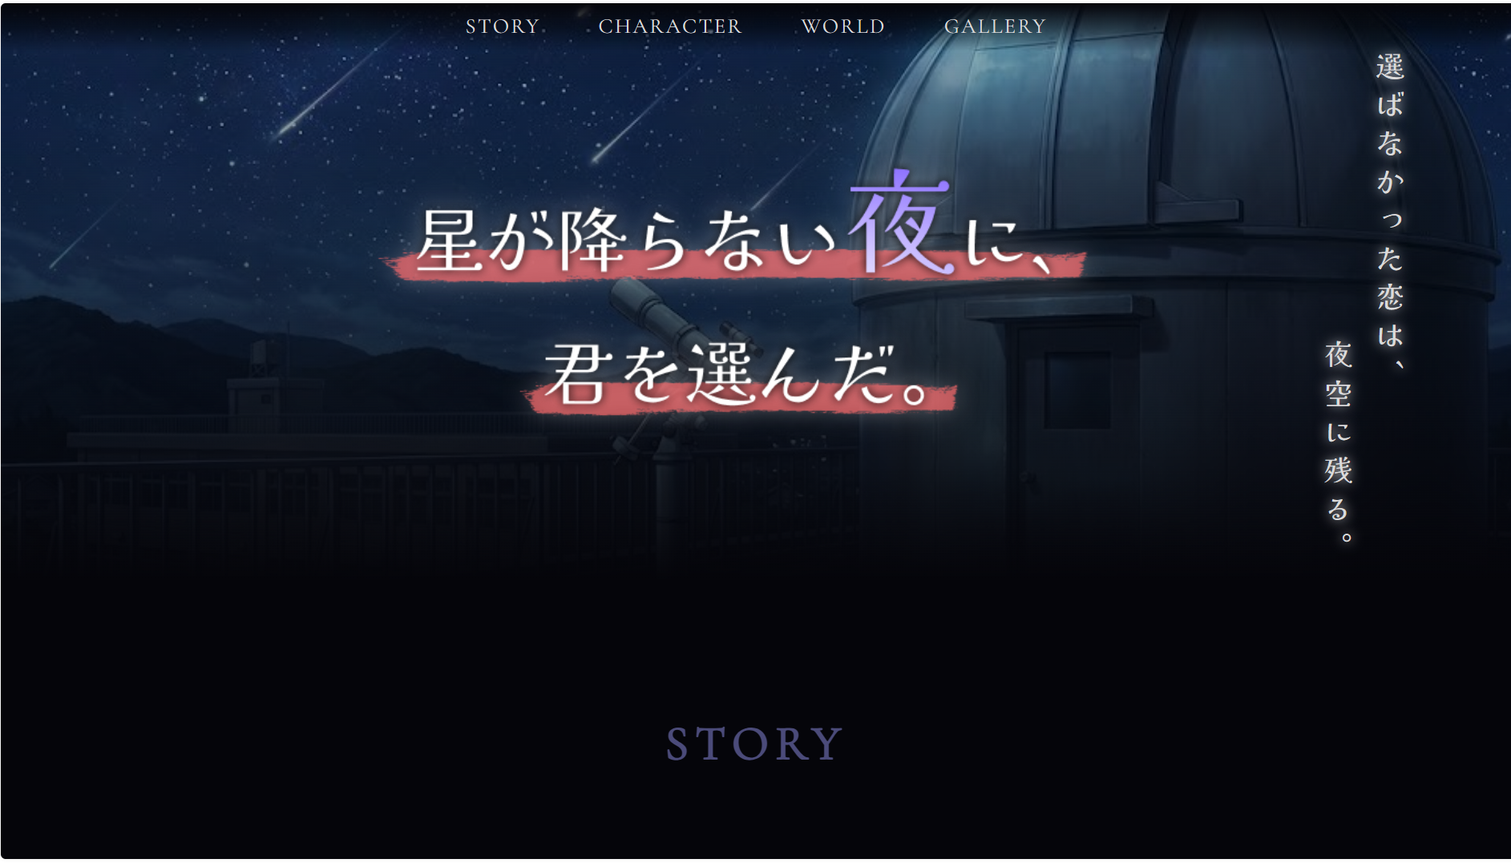
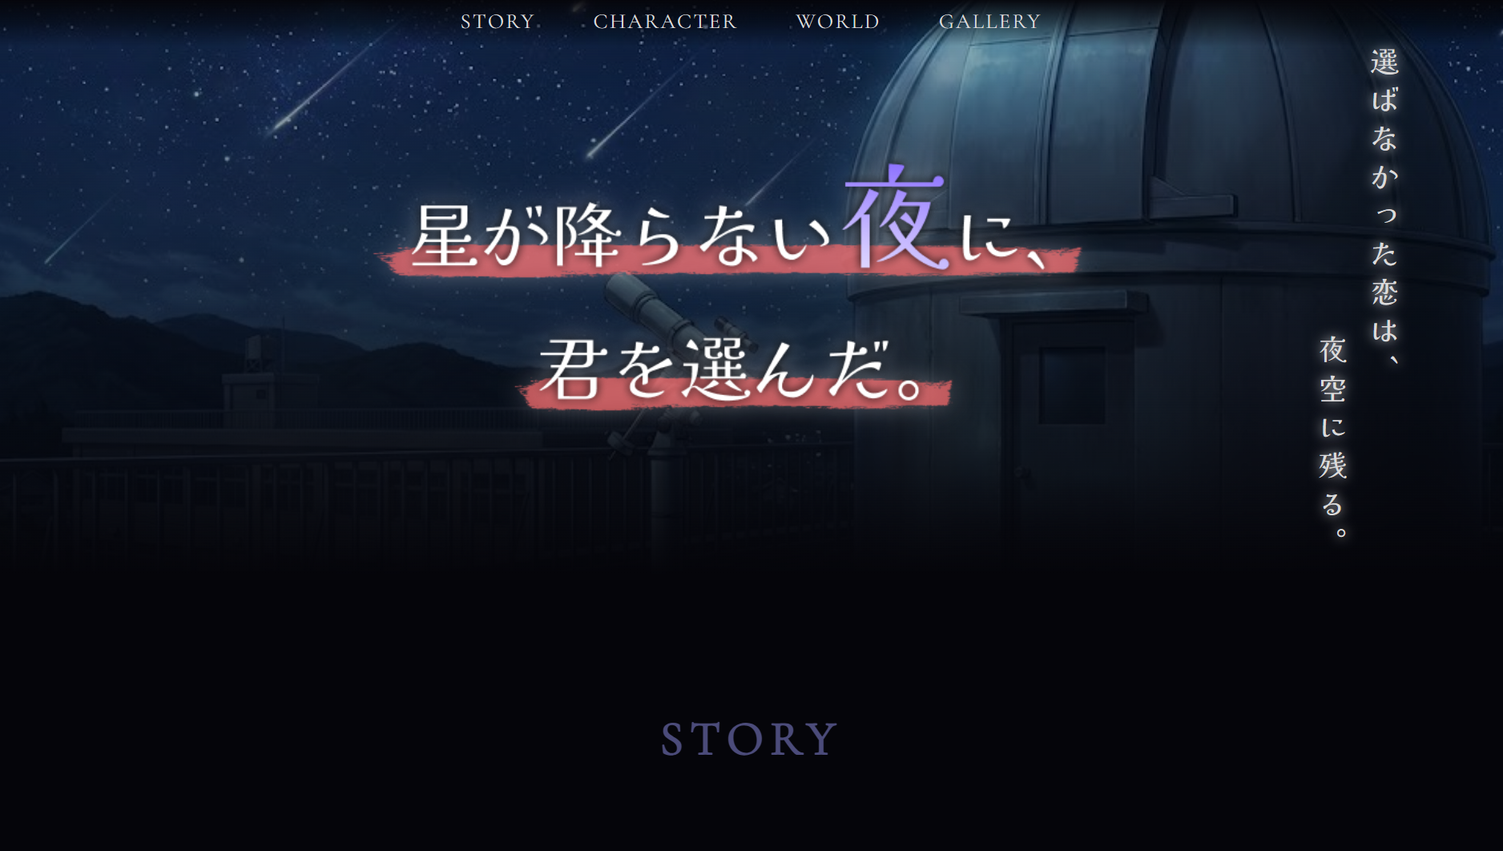
Add work-hosikimi.html

diff --git a/work-hosikimi.html b/work-hosikimi.html
@@ -1,0 +1,238 @@
+<!DOCTYPE html>
+<html lang="ja">
+    <head>
+        <meta charset="UTF-8">
+        <meta name="viewport" content="width=device-width, initial-scale=1.0">
+        <title>星が降らない夜に、君を選んだ。 | Sasakawa Shun's Portfolio</title>
+        <link rel="stylesheet" href="css/style.css">
+        <link rel="stylesheet" href="css/work-detail.css">
+        <script src="js/main.js"></script>
+        <meta name="description" content="架空アニメ作品のHP『星が降らない夜に、君を選んだ。』の作品詳細ページです。作品概要、課題設定、検索体験の工夫、実装内容、制作を通して学んだことを掲載しています。">
+    </head>
+    <body>
+        <header class="header"><a href="index.html"><span class="header__title">Sasakawa Shun's Portfolio</span></a></header>
+        <main>
+            <section class="hero background--change work-detail-hero" id="hero">
+                <div class="hero__inner">
+                    <div class="hero__body work-detail-hero__body">
+                        <!-- <a class="hero__top--button" href="index.html">
+                            <div class="top--button__inner">
+                                <span class="top--button__text">Top</span>
+                                <img src="images/Arrow 1.svg" alt="">
+                            </div>
+                        </a> -->
+                        <div class="hero__sentence work-detail-hero__sentence">
+                            <h1 class="hero__title work-detail-hero__title">星が降らない夜に、<br>君を選んだ。</h1>
+                            <p class="hero__text">架空のTVアニメ作品を想定して制作した、公式サイト風のWebサイトです。<br class="pc-br">
+                                青春・恋愛・ビターエンドを軸に、田舎寄りの高校にある天文部を舞台とした物語を設定し、夜・星・観測・沈黙といったキーワードから、静かで切ない作品世界を表現しました。
+                            </p>
+                            <div class="work-card__tags">
+                                <span class="work-card__tag tag--html">HTML</span>
+                                <span class="work-card__tag tag--css">CSS</span>
+                                <span class="work-card__tag tag--js">JavaScript</span>
+                                <span class="work-card__tag tag--figma">Figma</span>
+                            </div>
+                            <div class="hero__buttons work-detail-hero__buttons">
+                                <a class="button button--reverse work-detail-hero__button" href="https://shun299.github.io/hosi_kimi/" target="_blank" rel="noopener noreferrer">作品のサイトへ</a>
+                                <a class="button button--reverse work-detail-hero__button" href="https://github.com/Shun299/hosi_kimi" target="_blank" rel="noopener noreferrer">GitHubを見る</a>
+                            </div>
+                        </div>
+                        <div class="hero__image work-detail-hero__image"><img src="images/hosikimi.png" alt="星が降らない夜に、君を選んだ。のスクリーンショット"></div>
+                    </div>
+                </div>
+            </section>
+            <section class="work-detail work-overview">
+                <div class="section-heading work-detail__section-heading">
+                    <h2 class="work-detail__section-heading--title">作品概要</h2>
+                    <p>作品紹介と制作情報をまとめました</p>
+                </div>
+                <div class="work-overview__inner">
+                    <div class="work-overview__intro">
+                        <h3 class="work-overview__intro-title">作品紹介</h3>
+                        <p class="work-overview__intro-text">このサイトは、架空のアニメ作品『星が降らない夜に、君を選んだ。』の公式サイトとして制作しました。</p>
+                        <p class="work-overview__intro-text">単に作品情報を並べるのではなく、作品の空気感をWeb上でどう伝えるかを意識し、余白・配色・文字表現・スクロール演出を通して、静かな青春恋愛作品らしさを表現しています。物語は、天文部に所属する主人公と、幼なじみの少女、後から現れた少女の三人を中心に展開します。</p>
+                        <p class="work-overview__intro-text">同じ夜空を見上げながらも少しずつすれ違っていく関係性を、暗い夜空や淡い光、抑えた情報量によって表現しました。</p>
+                    </div>
+                    <div class="work-overview__info">
+                        <h3 class="work-overview__info-title">制作情報</h3>
+                        <dl class="work-overview__list">
+                            <div  class="work-overview__item">
+                                <dt class="work-overview__term">制作期間</dt>
+                                <dd class="work-overview__description">約20日</dd>
+                            </div>
+                            <div  class="work-overview__item">
+                                <dt class="work-overview__term">担当範囲</dt>
+                                <dd class="work-overview__description">企画整理 / 情報設計 / ロゴ制作 / デザイン / 実装</dd>
+                            </div>
+                            <div  class="work-overview__item">
+                                <dt class="work-overview__term">使用技術</dt>
+                                <dd class="work-overview__description">HTML / CSS / JavaScript / Figma</dd>
+                            </div>
+                            <div  class="work-overview__item">
+                                <dt class="work-overview__term">制作形態</dt>
+                                <dd class="work-overview__description">個人制作</dd>
+                            </div>
+                            <div  class="work-overview__item">
+                                <dt class="work-overview__term">対応状況</dt>
+                                <dd class="work-overview__description">PC / スマートフォン対応済み</dd>
+                            </div>
+                        </dl>
+                    </div>
+                </div>
+            </section>
+            <section class="work-detail background--change work-problem">
+                <div class="section-heading work-detail__section-heading">
+                    <h2 class="work-detail__section-heading--title">コンセプト</h2>
+                    <p>このセクションでは、作品全体の方向性を3つの視点から説明しています。<br>読む人が作品の雰囲気をふんわりと掴めるよう、情報を整理したセクションです。
+                    </p>
+                </div>
+                <div class="work-problem__inner">
+                    <div class="work-problem__card">
+                        <div class="work-problem__card--icon"><img src="images/hosikimi-theme.svg" alt=""></div>
+                        <div class="work-problem__card--description">
+                            <h3 class="work-problem__card--title">テーマ</h3>
+                            <p class="work-problem__card--text">選ばなかった恋は、夜空に残る。<br>本作のテーマは、青春の中にある静かなすれ違いと、選択の痛みです。
+                            </p>
+                        </div>
+                    </div>
+                    <div class="work-problem__card">
+                        <div class="work-problem__card--icon"><img src="images/hosikimi_pen.svg" alt=""></div>
+                        <div class="work-problem__card--description">
+                            <h3 class="work-problem__card--title">ビジュアルコンセプト</h3>
+                            <p class="work-problem__card--text">派手な演出や情報量の多い画面ではなく、余白を多く取り、文字や背景の変化をゆっくり見せることで、<br>「沈黙」や「言葉にできない感情」を感じられるサイトを目指しました。
+                            </p>
+                        </div>
+                    </div>
+                    <div class="work-problem__card">
+                        <div class="work-problem__card--icon"><img src="images/hosikimi-option.svg" alt=""></div>
+                        <div class="work-problem__card--description">
+                            <h3 class="work-problem__card--title">世界観・設定</h3>
+                            <p class="work-problem__card--text">作品ジャンルは青春・恋愛・ビターエンド・三角関係。<br>舞台は田舎寄りの高校にある天文部で、夜空や星の観測を通して、三人の関係性が少しずつ変化していく世界観を設定しました。
+                            </p>
+                        </div>
+                    </div>
+                </div>
+            </section>
+            <section class="work-detail background--change work-design-feature">
+                <div class="section-heading work-detail__section-heading">
+                    <h2 class="work-detail__section-heading--title">デザインのポイント</h2>
+                    <p>夜空や星、沈黙といった作品のキーワードをもとに、<br class="pc-br">静かで切ない青春恋愛作品らしさが伝わるデザインを意識しました。
+                    </p>
+                </div>
+                <div class="work-design-feature__inner">
+                    <div class="work-design-feature__card hover-lift">
+                        <div class="work-design-feature__visual">
+                            <div class="work-design-feature__color-palette">
+                                <div class="work-design-feature__color-item">
+                                    <span class="work-design-feature__color work-design-feature__color--hosikimi-bg"></span>
+                                    <span class="work-design-feature__color-name">bg-<br>color</span>
+                                </div>
+                                <div class="work-design-feature__color-item">
+                                    <span class="work-design-feature__color work-design-feature__color--hosikimi-accent"></span>
+                                    <span class="work-design-feature__color-name">accent-<br>color</span>
+                                </div>
+                                <div class="work-design-feature__color-item">
+                                    <span class="work-design-feature__color work-design-feature__color--hosikimi-accent2"></span>
+                                    <span class="work-design-feature__color-name">accent-<br>color2</span>
+                                </div>
+                                <div class="work-design-feature__color-item">
+                                    <span class="work-design-feature__color work-design-feature__color--hosikimi-text"></span>
+                                    <span class="work-design-feature__color-name">text-<br>color</span>
+                                </div>
+
+                            </div>
+                        </div>
+                        <h3 class="work-design-feature__card--title">夜空をイメージした配色</h3>
+                        <p class="work-design-feature__card--text">黒や深い青を基調にし、星や夜空を感じられる落ち着いた配色にしました。<br class="pc-br">
+                            アクセントには赤色を取り入れ、恋愛作品らしさも表現しています。
+                        </p>
+                    </div>
+                    <div class="work-design-feature__card hover-lift">
+                        <div class="work-design-feature__visual">
+                            <div class="work-design-feature__card--img"><img src="images/hosikimi-margin.png" alt="余白のスクリーンショット"></div>
+                        </div>
+                        <h3 class="work-design-feature__card--title">余白で静寂を表現</h3>
+                        <p class="work-design-feature__card--text">情報を詰め込みすぎず、余白を多めに取ることで、<br class="pc-br">
+                            夜の静けさや言葉にできない感情を感じられるレイアウトにしました。
+                        </p>
+                    </div>
+                    <div class="work-design-feature__card hover-lift">
+                        <div class="work-design-feature__visual">
+                            <div class="work-design-feature__card--img"><img src="images/hosikimi_title.png" alt="星が降らない夜に、君を選んだ。のロゴのスクリーンショット"></div>
+                        </div>
+                        <h3 class="work-design-feature__card--title">ロゴで青春と恋愛を表現</h3>
+                        <p class="work-design-feature__card--text">タイトルロゴはFigmaで自作し、チョークの下線をイメージした表現で青春感を出しました。<br class="pc-br">
+                            下線を赤色にすることで、恋愛作品であることも伝わるようにしています。
+                        </p>
+                    </div>
+                </div>
+            </section>
+            <section class="work-detail work-ingenuity">
+                <div class="section-heading work-detail__section-heading">
+                    <h2 class="work-detail__section-heading--title">実装・工夫した点</h2>
+                    <p>HTML/CSSで公式サイトとしてのページ構成を作成し、<br class="pc-br">
+                        JavaScriptでは作品の雰囲気を補うための控えめな演出を実装しました。<br class="pc-br">
+                        見た目の印象だけでなく、作品情報を伝える順番も意識しています。
+                    </p>
+                </div>
+                <div class="work-ingenuity__inner">
+                    <div class="work-ingenuity__card">
+                        <div class="work-ingenuity__card--img"><img src="images/change-background.png" alt="スクロールによる背景色の変化のスクリーンショット"></div>
+                        <div class="work-ingenuity__card-body">
+                            <h3 class="work-ingenuity__card--title">スクロールによる背景色の変化</h3>
+                            <p class="work-ingenuity__card-text">スクロールに応じて背景色が黒から深い青、オレンジへと変化するようにしました。<br>
+                                夜から夜明けへ向かう時間の流れを表現し、物語の余韻が残るような演出を目指しました。
+                            </p>
+                        </div>
+                    </div>
+                    <div class="work-ingenuity__card">
+                        <div class="work-ingenuity__card--img"><img src="images/hosikimi-pages.png" alt="ページ構成のスクリーンショット"></div>
+                        <div class="work-ingenuity__card-body">
+                            <h3 class="work-ingenuity__card--title">公式サイトを想定したページ構成</h3>
+                            <p class="work-ingenuity__card-text">TOP / STORY / CHARACTER / WORLD / GALLERYで構成し、<br class="pc-br">
+                                作品のあらすじや登場人物、舞台設定を順番に理解できるようにしました。<br>
+                                情報量を抑えることで、作品の静かな雰囲気を壊さないようにしています。
+                            </p>
+                        </div>
+                    </div>
+                    <div class="work-ingenuity__card">
+                        <div class="work-ingenuity__card--img"><img src="images/hosikimi-smartphone.png" alt="レスポンシブ対応のスクリーンショット"></div>
+                        <div class="work-ingenuity__card-body">
+                            <h3 class="work-ingenuity__card--title">レスポンシブ対応</h3>
+                            <p class="work-ingenuity__card-text">PC版の余白や世界観を保ちながら、スマートフォンでも読みやすいように文字サイズや余白を調整しました。<br>
+                                remを基本単位として使用し、画面幅に応じて調整しやすいCSS設計を意識しています。
+                            </p>
+                        </div>
+                    </div>
+                </div>
+            </section>
+            <section class="work-detail background--change work-review">
+                <div class="section-heading work-detail__section-heading">
+                    <h2 class="work-detail__section-heading--title">振り返り</h2>
+                    <p>制作を通して、学んだことと今後の展望をまとめました。</p>
+                </div>
+                <div class="work-review__inner">
+                    <div class="work-review__learned">
+                        <h3 class="work-review__title">学んだこと</h3>
+                        <p class="work-review__text">この制作を通して、アニメ公式サイトでは、情報を多く載せることよりも、<br class="pc-br">
+                            作品の空気感を壊さずに伝えることが大切だと学びました。<br>
+                            特に、余白・配色・文字の見せ方・動きの量によって、閲覧者が受け取る印象が大きく変わることを実感しました。
+                        </p>
+                    </div>
+                    <div class="work-review__future">
+                        <h3 class="work-review__title">今後の展望</h3>
+                        <p class="work-review__text">今回は作品全体の雰囲気を重視したため、キャラクター個別のビジュアル表現は控えめになっています。<br>
+                            今後はキャラクターの立ち絵や表情差分を追加し、<br class="pc-br">
+                            CHARACTERページやGALLERYページをよりファン向けの内容に発展させたいです。
+                        </p>
+                    </div>
+                </div>
+            </section>
+            <div class="work-detail__buttons">
+                <a class="button work-detail__button" href="index.html">トップページへ</a>
+                <a class="button work-detail__button" href="index.html#works">作品の一覧へ</a>
+            </div>
+        </main>
+        <footer class="footer background--change">@ 2026 Sasakawa Shun's Portfolio</footer>
+    </body>
+</html>

diff --git a/work-hukunavi.html b/work-hukunavi.html
@@ -44,7 +44,7 @@
             <section class="work-detail work-overview">
                 <div class="section-heading work-detail__section-heading">
                     <h2 class="work-detail__section-heading--title">作品概要</h2>
-                    <p>福井県の観光スポットを、興味から見つける</p>
+                    <p>作品紹介と制作情報をまとめました</p>
                 </div>
                 <div class="work-overview__inner">
                     <div class="work-overview__intro">
@@ -124,24 +124,24 @@
                     <p>段階的な選択で、興味に合う観光地へ導く
                     </p>
                 </div>
-                <div class="work-solution__inner">
+                <div class="work-solution__inner work-solution__inner--3col">
                     <div class="work-solution__card">
                         <span class="work-solution__card--number">01</span>
-                        <h3 class="work-solution__card--title">分類を選ぶ検索体験</h3>
+                        <h3 class="work-solution__card--title work-solution__card--long-title">分類を選ぶ<br>検索体験</h3>
                         <p>大分類/中分類/小分類を順番に選択することで、目的地が明確でない状態でも観光スポットを絞り込めるようにしました。<br class="pc-br">
                             「歴史・文化」「自然」「温泉・健康」など、利用者の興味を起点に行き先を考えられる設計にしています。
                         </p>
                     </div>
                     <div class="work-solution__card">
                         <span class="work-solution__card--number">02</span>
-                        <h3 class="work-solution__card--title">条件を引き継ぐページ遷移</h3>
+                        <h3 class="work-solution__card--title work-solution__card--long-title">条件を引き継ぐ<br>ページ遷移</h3>
                         <p>TOPページで選択した条件は、クエリパラメータとして検索結果ページへ受け渡す仕組みにしました。<br class="pc-br">
                             画面が切り替わっても選択状態が反映されるため、検索の流れが途切れないようにしています。
                         </p>
                     </div>
                     <div class="work-solution__card">
                         <span class="work-solution__card--number">03</span>
-                        <h3 class="work-solution__card--title">一覧と地図の同時表示</h3>
+                        <h3 class="work-solution__card--title work-solution__card--long-title">一覧と地図の<br>同時表示</h3>
                         <p>検索結果ページでは、条件に合う観光スポットの一覧と地図を同時に表示しました。<br class="pc-br">
                             スポットの情報だけでなく、位置関係や距離感も直感的に把握できるようにしています。
                         </p>

diff --git a/work-kansaido.html b/work-kansaido.html
@@ -46,7 +46,7 @@
             <section class="work-detail work-overview">
                 <div class="section-heading work-detail__section-heading">
                     <h2 class="work-detail__section-heading--title">作品概要</h2>
-                    <p>老舗和菓子屋の魅力を伝える、ブランドサイト兼ECサイト</p>
+                    <p>作品紹介と制作情報をまとめました</p>
                 </div>
                 <div class="work-overview__inner">
                     <div class="work-overview__intro">
@@ -64,7 +64,7 @@
                             </div>
                             <div  class="work-overview__item">
                                 <dt class="work-overview__term">担当範囲</dt>
-                                <dd class="work-overview__description">企画 / デザイン / 実装</dd>
+                                <dd class="work-overview__description">企画整理 / 情報設計 / ロゴ制作 / デザイン / 実装</dd>
                             </div>
                             <div  class="work-overview__item">
                                 <dt class="work-overview__term">使用技術</dt>
@@ -76,7 +76,7 @@
                             </div>
                             <div  class="work-overview__item">
                                 <dt class="work-overview__term">対応状況</dt>
-                                <dd class="work-overview__description">PC版を中心に制作 / スマートフォン対応は調整中</dd>
+                                <dd class="work-overview__description">PC版を中心に制作 / <br>スマートフォン対応は調整中</dd>
                             </div>
                         </dl>
                     </div>
@@ -168,7 +168,7 @@
                         老舗としての安心感や程よい高級感が伝わるデザインを意識しました。
                     </p>
                 </div>
-                <div class="work-design-feature__inner work-design-feature__inner--2col">
+                <div class="work-design-feature__inner">
                     <div class="work-design-feature__card hover-lift">
                         <div class="work-design-feature__visual">
                             <div class="work-design-feature__color-palette">

diff --git a/css/work-detail.css b/css/work-detail.css
@@ -31,6 +31,8 @@
 
 .work-detail-hero__image img {
     width: 100%;
+    height: 100%;
+    object-fit: cover;
 }
 
 .work-detail-hero__sentence {
@@ -173,6 +175,10 @@
     margin-top: 6rem;
 }
 
+.work-solution__inner--3col {
+    grid-template-columns: repeat(3, minmax(0, 350px));
+}
+
 .work-solution__card {
     display: grid;
     position: relative;
@@ -196,6 +202,10 @@
 
 .work-solution__card--title {
     font-size: 2.25rem;
+}
+
+.work-solution__card--long-title {
+    font-size: 1.5rem;
 }
 
 /* デザインのポイントセクション */
